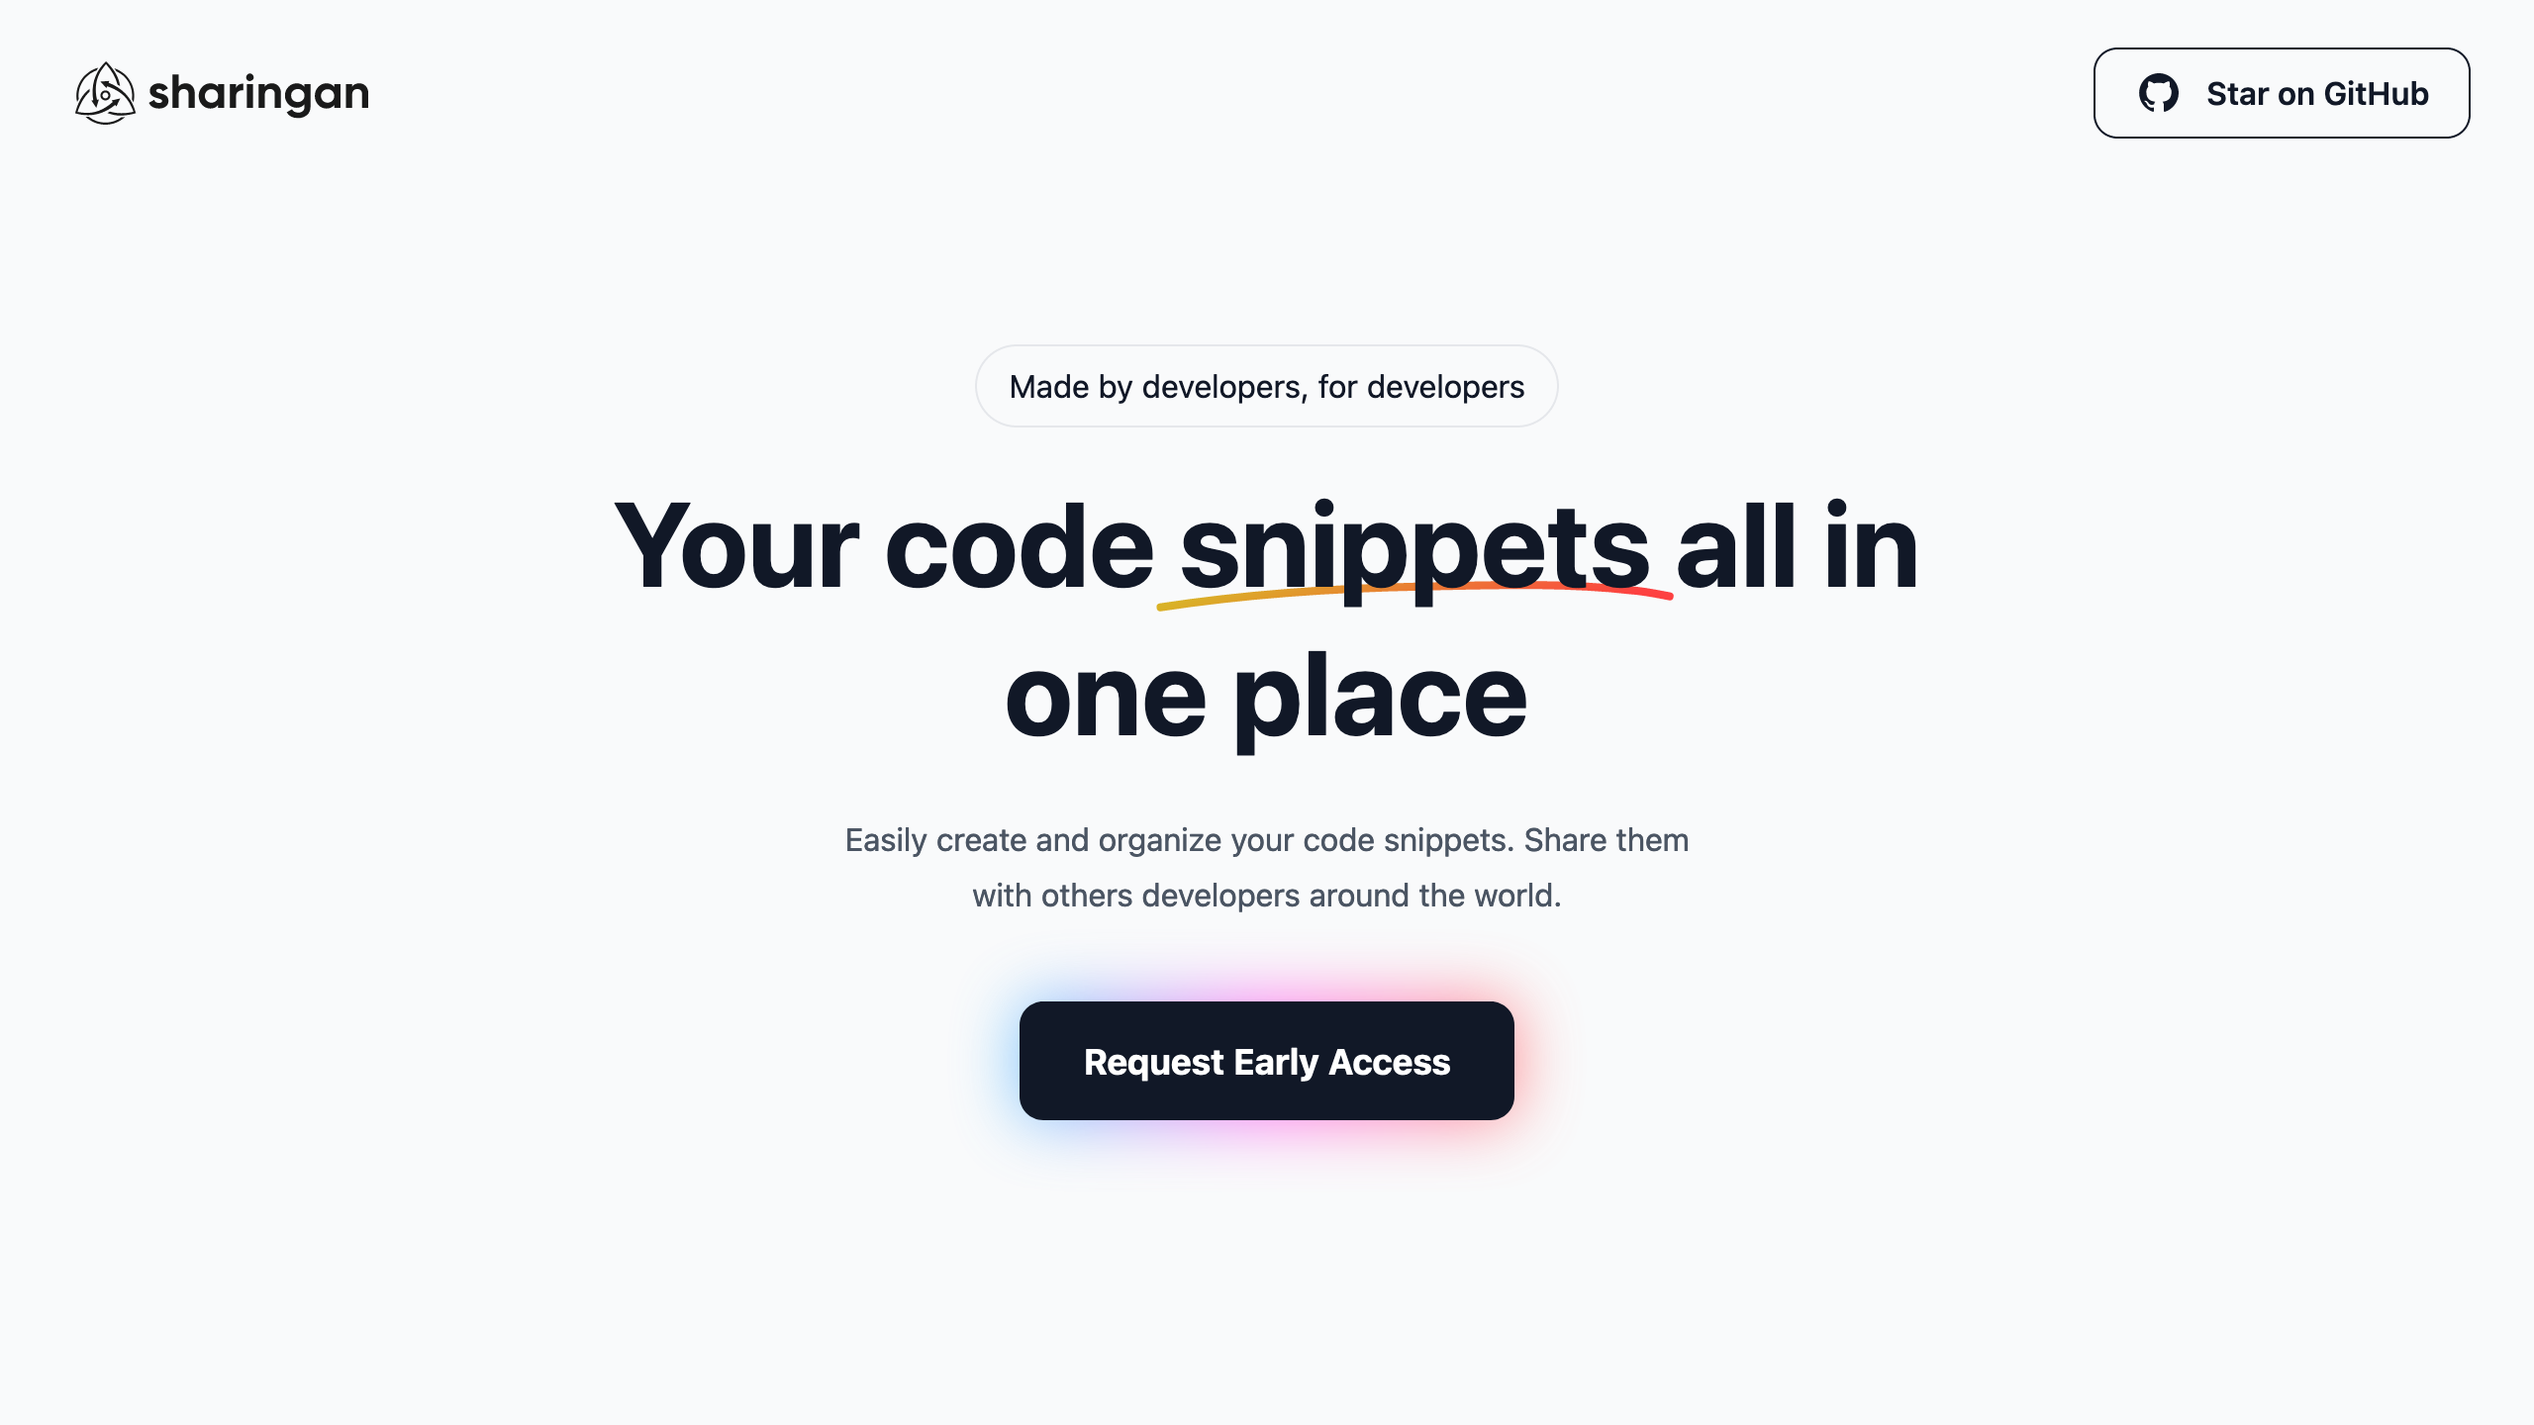
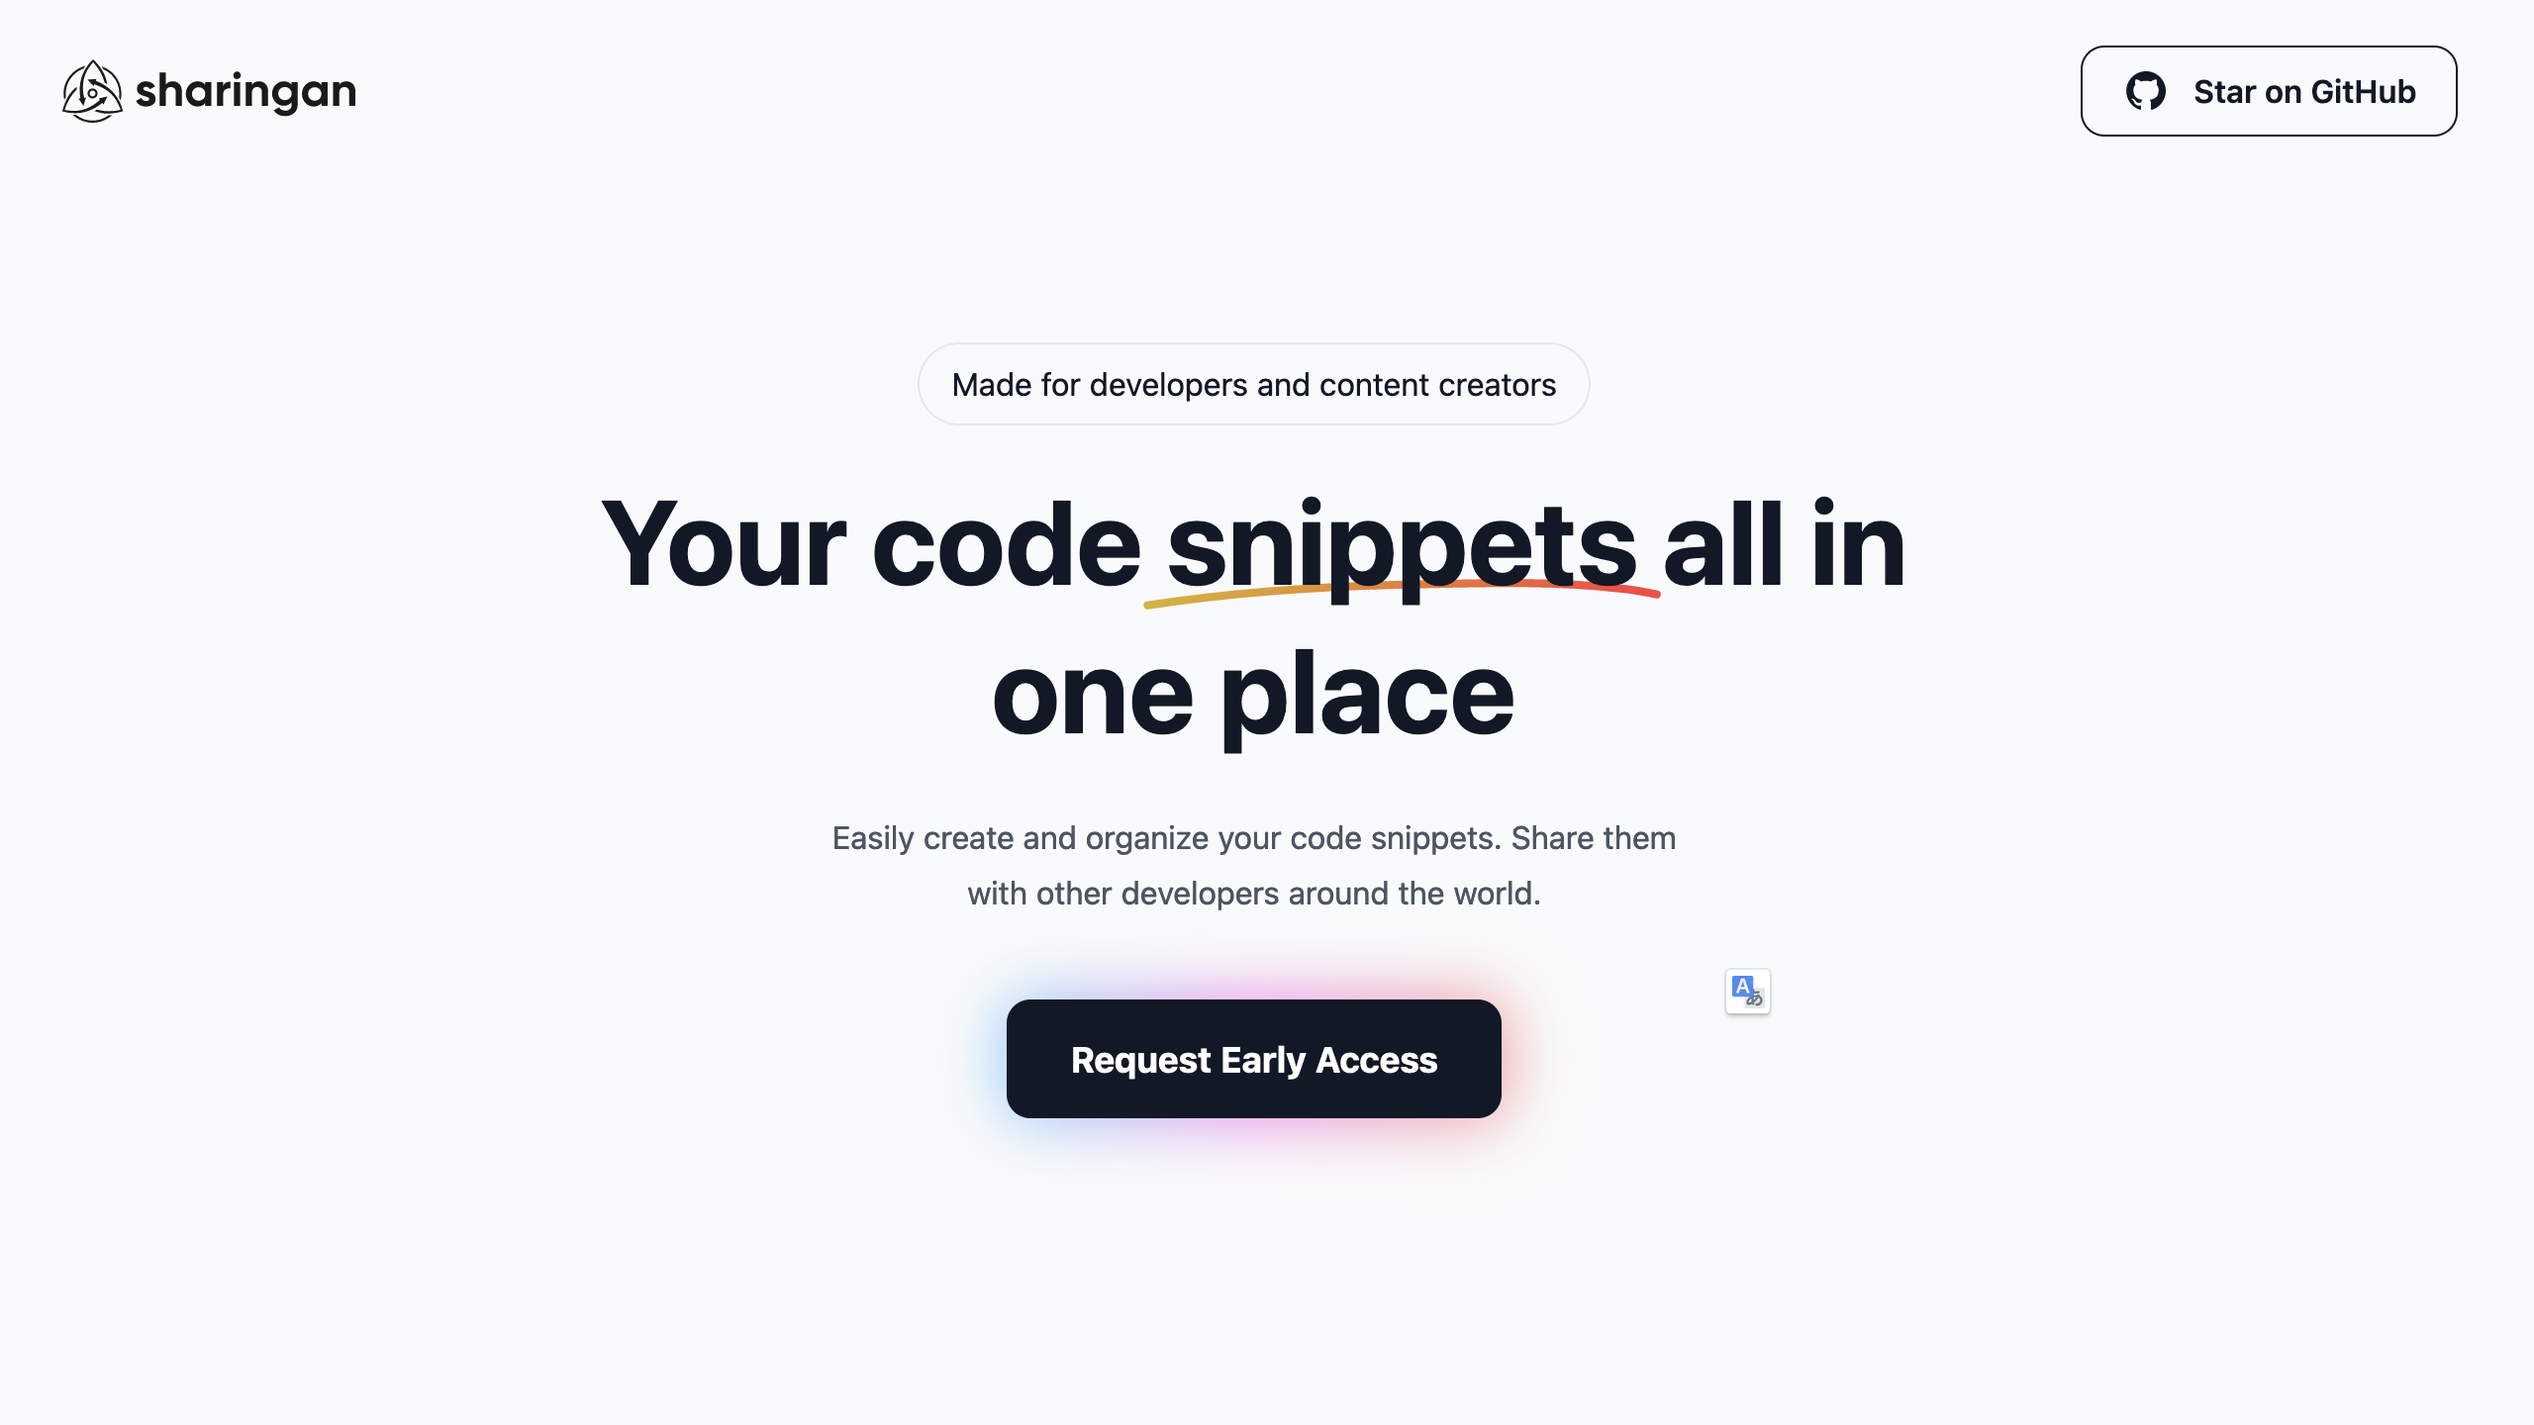
feat(app): update landing texts and read me

diff --git a/apps/web/src/components/home/feature-section.tsx b/apps/web/src/components/home/feature-section.tsx
@@ -7,7 +7,7 @@ import ShareIcon from '@/components/icons/share';
 
 const features = [
   {
-    description: 'Organize your similar code snippets into folder the same way you manage your file on the computer.',
+    description: 'Organize related code snippets into folders the same way you manage your file on the computer.',
     icon: <CollectionIcon />,
     id: 'organize-snippets',
     title: 'Organize your snippets',
@@ -25,13 +25,13 @@ const features = [
     title: 'Import from GitHub Gist',
   },
   {
-    description: 'Share your code snippets with others developers. Give them ability to interact and improve.',
+    description: 'Share your code snippets with other developers. Give them the ability to interact and improve.',
     icon: <ShareIcon />,
     id: 'share-snippets',
     title: 'Share your snippets',
   },
   {
-    description: 'For content creators, you can embed your snippet on a blog post or a post on social network.',
+    description: 'For content creators, you can embed your snippet on a blog post or a post on social networks.',
     icon: <EmbedIcon />,
     id: 'embed-snippets',
     title: 'Embed your snippets',
@@ -52,8 +52,8 @@ const FeatureSection = () => {
           What features to expect
         </h2>
         <p className="mx-auto mt-4 text-lg font-medium text-gray-400 lg:max-w-3xl lg:text-xl lg:text-center xs:text-center">
-          We want to offer the best experience for managing your code snippets, discover the some features that will
-          bring your experience into a new level.
+          We want to offer the best experience for managing your code snippets and discover some features that will
+          bring your experience to a new level.
         </p>
         <div className="grid grid-cols-1 mt-12 gap-x-6 gap-y-12 sm:grid-cols-2 lg:mt-16 lg:grid-cols-3 lg:gap-x-8 lg:gap-y-12">
           {features.map((feature) => (

diff --git a/apps/web/src/components/home/hero-section.tsx b/apps/web/src/components/home/hero-section.tsx
@@ -4,7 +4,7 @@ const HeroSection = () => {
       <div className="relative px-4 mx-auto sm:px-6 lg:px-8 max-w-7xl">
         <div className="max-w-3xl mx-auto text-center">
           <p className="inline-flex px-4 py-2 text-base text-gray-900 border border-gray-200 rounded-full font-pj">
-            Made by developers, for developers
+            Made for developers and content creators
           </p>
           <h1 className="mt-5 text-4xl font-bold leading-tight text-gray-900 sm:text-5xl sm:leading-tight lg:text-6xl lg:leading-tight font-pj">
             Your code
@@ -40,7 +40,7 @@ const HeroSection = () => {
             all in one place
           </h1>
           <p className="max-w-md mx-auto mt-6 text-base leading-7 text-gray-600 font-inter">
-            Easily create and organize your code snippets. Share them with others developers around the world.
+            Easily create and organize your code snippets. Share them with other developers around the world.
           </p>
 
           <div className="relative inline-flex mt-10 group">

diff --git a/apps/web/src/components/home/newsletter/newsletter-section.tsx b/apps/web/src/components/home/newsletter/newsletter-section.tsx
@@ -5,9 +5,9 @@ const NewsletterSection = () => {
     <section className="py-12 bg-gray-50 sm:py-16 lg:py-20" id="early-access">
       <div className="px-4 mx-auto max-w-7xl sm:px-6 lg:px-8">
         <div className="max-w-2xl mx-auto text-center">
-          <h2 className="text-4xl font-bold text-gray-900">Join our early access program ⚡</h2>
+          <h2 className="text-4xl font-bold text-gray-900">Join the early access program ⚡</h2>
           <p className="max-w-md mx-auto mt-5 text-base font-normal text-gray-600 font-pj">
-            Join the newsletter to get notified when the application will be live and also further updates.
+            Join the newsletter to get notified when the application will be live and further updates.
           </p>
         </div>
 

diff --git a/apps/core/README.md b/apps/core/README.md
@@ -6,21 +6,25 @@ This is the core backend of Sharingan. All the business logic behind this applic
 * Node.js
 * Typescript
 * GraphQL
-* MySQL
+* MySQL 8 through PlanetScale
+* Prisma
 
 ## Prerequisites
 Make sure you have this tools installed before running the project
-* Node.js 14+
+* Node.js 16+
 * NPM or Yarn
 * Docker
 * AWS CLI v2
 
 ## Packages dependencies
-We use Yarn workspace to create packages we can share with others applications. 
-These packages are located in the folder `packages` so, you can find yourself needing to change
- code inside one or many packages to implement a feature. Here are the packages used in the core backend application:
+We use Yarn workspace to create packages we can share with other applications.
+These packages are located in the folder `packages`, so you might need to change the code of one or many packages to implement a feature.
+Here are the packages used in the front-end application:
 
-* common
+* [@sharingan/database](../../packages/database)
+* [@sharingan/domain](../../packages/domain)
+* [@sharingan/logger](../../packages/logger)
+* [@sharingan/utils](../../packages/utils)
 
 ## Set up the project
 Delete the existing folders output from build commands
@@ -38,18 +42,37 @@ cp .env.template .env
 # Edit configuration to match your local environment and save
 nano .env
 ```
-| Variable | Description                                                            |
-|----------|------------------------------------------------------------------------|
-| HOST     | Host name where the application is running (default: http://localhost) |
-| PORT     | Port number of the application (default: 7500)                         |
 
-Start Application
+**Environment variables list**
+
+| Variable             | Description                                                              |
+|----------------------|--------------------------------------------------------------------------|
+| NODE_ENV             | Node.js environment (default: development)                               |
+| HOST                 | Host name where the application is running (default: http://localhost)   |
+| PORT                 | Port number of the application (default: 7501)                           |
+| ENABLE_INTROSPECTION | Enable/Disable GraphQL introspection (must `false` in production)        |
+| DATABASE_URL         | URL of the database                                                      |
+| ADMIN_PASSWORD       | Password of the default admin user.                                      |
+| CONVERTKIT_API_KEY   | ConvertKit API key                                                       |
+| CONVERTKIT_FORM_ID   | ConvertKit Form ID                                                       |
+| CONVERTKIT_TAG_ID    | ConvertKit Tag ID                                                        |
+| REQUEST_TIMEOUT      | Max duration of a request (default: 30 seconds)                          |
+| GITHUB_CLIENT_ID     | GitHub application client ID for authentication with GitHub              |
+| GITHUB_CLIENT_SECRET | GitHub application client secret for authentication with GitHub          |
+| WEB_APP_URL          | URL of the frontend the application that communicates with this app      |
+| WEB_AUTH_SUCCESS_URL | Callback URL of the frontend application when the authentication succeed |
+| WEB_AUTH_ERROR_URL   | Callback URL of the frontend application when the authentication failed  |
+| SESSION_LIFETIME     | The session's lifetime when a user authenticate (default: 90 days)       |
+| SENTRY_DSN           | Sentry DSN                                                               |
+| SENTRY_ENABLED       | Enable/Disable Sentry                                                    |
+
+Start the application
 ```bash
 yarn dev
 ```
 The application will be launched by [Nodemon](https://nodemon.com).
 
-Open [http://localhost:7500](http://localhost:7500) with your browser to see the result.
+Open [http://localhost:7501/graphql](http://localhost:7501/graphql) in your browser and use Apollo studio explorer to test your GraphQL queries and mutations.
 
 ## Running tests
 Run the command below to run all the tests

diff --git a/apps/web/README.md b/apps/web/README.md
@@ -1,22 +1,25 @@
-# Sharingan Core
+# Sharingan Web
 
-This is the frontend of Sharingan. It holds the website landing page, the web application and the blog pages
+This project is about the front end of Sharingan. It holds the website landing page, the web application, and the blog pages.
+
+[![Website](https://sharingan.dev/assets/og.png)](https://sharingan.dev)
 
 ## Tech Stack
 * Next.js
 * Tailwind CSS
+* Typescript
 
 ## Prerequisites
 Make sure you have this tools installed before running the project
-* Node.js 14+
+* Node.js 16+
 * NPM or Yarn
 
 ## Packages dependencies
-We use Yarn workspace to create packages we can share with others applications.
-These packages are located in the folder `packages` so, you can find yourself needing to change
-code inside one or many packages to implement a feature. Here are the packages used in the core backend application:
+We use Yarn workspace to create packages we can share with other applications.
+These packages are located in the folder `packages`, so you might need to change the code of one or many packages to implement a feature.
+Here are the packages used in the front-end application:
 
-* common
+* [@sharingan/utils](../../packages/utils)
 
 ## Set up the project
 Delete the existing folders output from build commands
@@ -34,18 +37,20 @@ cp .env.template .env.local
 # Edit configuration to match your local environment and save
 nano .env.local
 ```
-| Variable | Description                                                         |
-|----------|---------------------------------------------------------------------|
-| APP_ENV  | Environment where the application is running (default: development) |                     |
+| Variable                     | Description                                                         |
+|------------------------------|---------------------------------------------------------------------|
+| NEXT_PUBLIC_APP_ENV          | Environment where the application is running (default: development) |
+| NEXT_PUBLIC_GITHUB_CLIENT_ID | GitHub application client ID for authentication with GitHub         |
+| NEXT_PUBLIC_SERVER_URL       | URL of the [backend](../core) application                           |
+| NEXT_PUBLIC_APP_URL          | URL of this application (default: http://localhost:7500)            |
+| NEXT_PUBLIC_SENTRY_DSN       | Sentry DSN                                                          |
 
 
-Start Application
+Start the application
 ```bash
 yarn dev
 ```
-The application will be launched by [Nodemon](https://nodemon.com).
-
-Open [http://localhost:7501](http://localhost:7501) with your browser to see the result.
+Open [http://localhost:7500](http://localhost:7500) in your browser to see the page.
 
 ## Running tests
 Run the command below to run all the tests

diff --git a/README.md b/README.md
@@ -1,29 +1,43 @@
 # Sharingan
 
-Sharingan is an open-source code sharing platform that makes it easy to create code snippets
-and sharing it with the world.
+Sharingan is an open-source code-sharing platform that makes it easy to create code snippets and sharing it with the world.
+
+[![Website](https://sharingan.dev/assets/og.png)](https://sharingan.dev)
+
 
 ## Key Features
 * Create private or public code snippets with tags
 * Browse and search into public code snippets
 * Create folder to group your code snippets by category
 * Generate a link to share a code snippet
-* Add comments to a code snippet
 * Import code snippet from GitHub Gist
+* Add comments to a code snippet
 
-## Project structure
+## Tech Stack
+* [Node.js](https://nodejs.org/en/)
+* [Typescript](https://www.typescriptlang.org/)
+* [GraphQL](https://graphql.org/)
+* [MySQL 8 through PlanetScale](https://planetscale.com/)
+* [Prisma](https://www.prisma.io/)
+* [Tailwind CSS](https://tailwindcss.com/)
+
+## Project Structure
 ```text
-sharingan/
-├─ apps/
-│  ├─ core/
-│  ├─ web/
-├─ functions/
-├─ packages/
-│  ├─ common/
+sharingan
+├─ apps
+│  ├─ core
+│  ├─ functions
+│  ├─ web
+├─ packages
+│  ├─ database
+│  ├─ domain
+│  ├─ logger
+│  ├─ utils
 package.json
 tsconfig.base.json
 tsconfig.json
 turbo.json
+vercel.json
 ```
 
 ## Contributing
